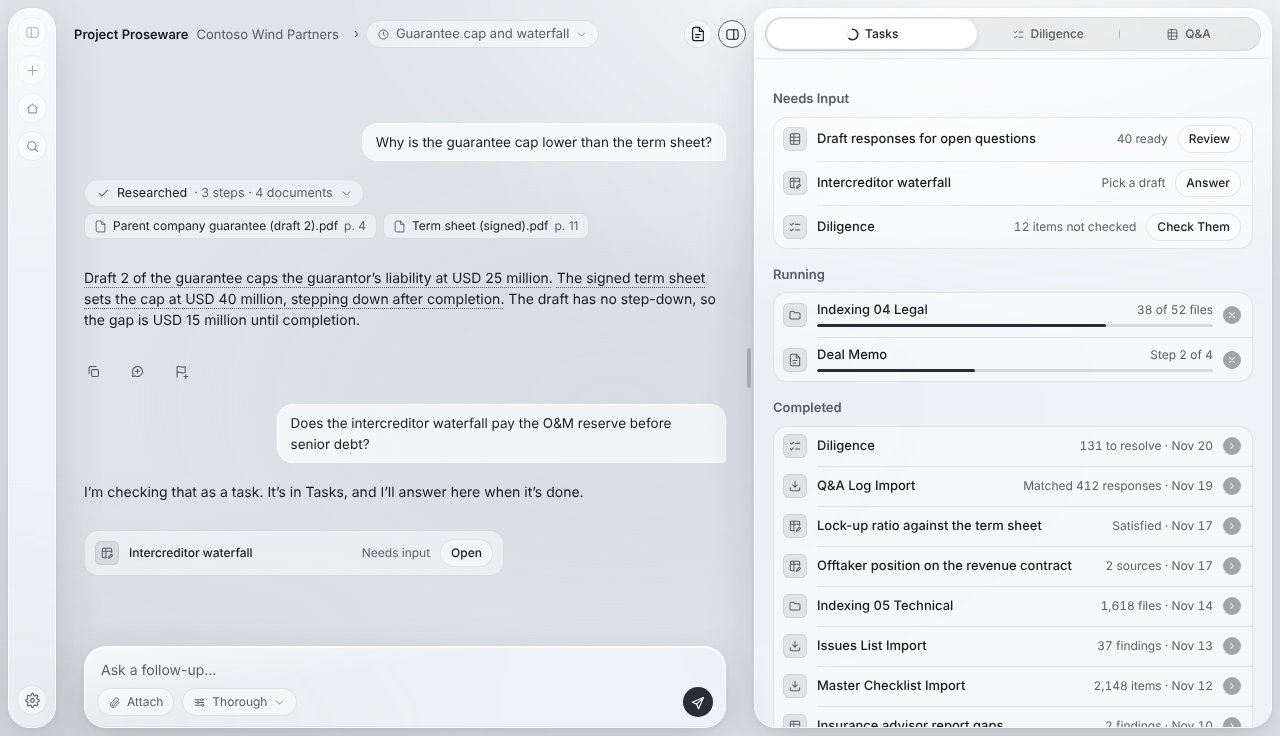
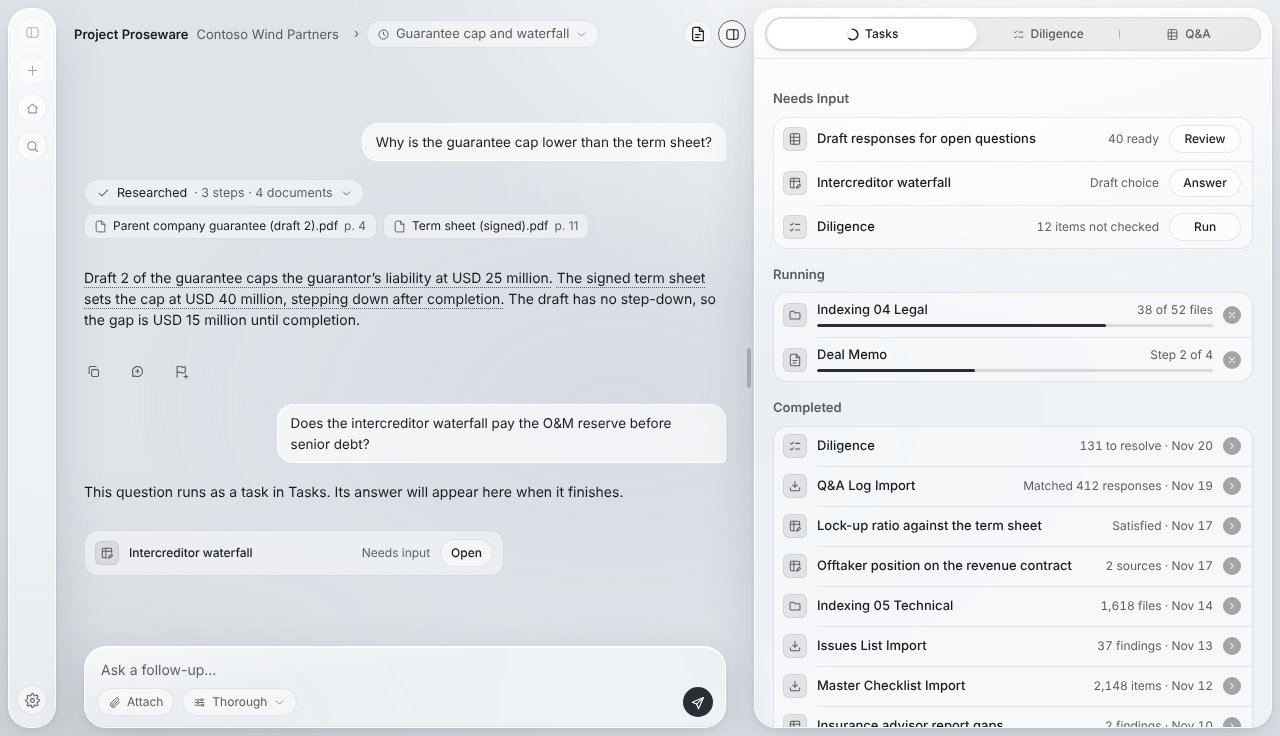
Word Needs Input and the task notice formally, and line up Needs Input's buttons (#888)

diff --git a/docs/deal-screen/mock-open-questions.js b/docs/deal-screen/mock-open-questions.js
@@ -119,17 +119,18 @@ const WATERFALL_TASK = 'Intercreditor waterfall';
 const TURN_WATERFALL_ASK = '<div class="me">Does the intercreditor waterfall pay the O&amp;M reserve before senior debt?</div>';
 
 const TURN_WATERFALL_NEEDS_INPUT = `${TURN_WATERFALL_ASK}
-<div class="ai"><p>I’m checking that as a task. It’s in Tasks, and I’ll answer here when it’s done.</p>
+<div class="ai"><p>This question runs as a task in Tasks. Its answer will appear here when it finishes.</p>
 ${taskCard('logedit', WATERFALL_TASK, 'Needs input')}</div>`;
 
-const REVIEW_BUTTON = (label) => `<button class="btn sm">${label}</button>`;
+// Needs Input's buttons share one width, so the status texts line up in one column
+const REVIEW_BUTTON = (label) => `<button class="btn sm x-act">${label}</button>`;
 
 // Needs Input: drafts to review, a task's question to the person, and items Diligence left out
 const NEEDS_INPUT_ROWS = [
   taskRow('sheet', 'Draft responses for open questions', '40 ready', { end: REVIEW_BUTTON('Review') }),
-  taskRow('logedit', WATERFALL_TASK, 'Pick a draft',
+  taskRow('logedit', WATERFALL_TASK, 'Draft choice',
     { end: REVIEW_BUTTON('Answer'), hoverText: 'Which draft is current: draft 5 (Nov 3) or draft 6 (Nov 17)?' }),
-  taskRow('cklist', 'Diligence', '12 items not checked', { end: REVIEW_BUTTON('Check Them') }),
+  taskRow('cklist', 'Diligence', '12 items not checked', { end: REVIEW_BUTTON('Run') }),
 ];
 
 const RUNNING_ROWS = [

diff --git a/docs/deal-screen/mock-chat.js b/docs/deal-screen/mock-chat.js
@@ -75,7 +75,7 @@ ${taskCard('cklist', 'Diligence', '1,204 of 2,148', 0.56)}</div>`;
 const ASK_BOARD_RESOLUTIONS = '<div class="me">Are the board resolutions for the financing current?</div>';
 
 const TURN_BOARD_TASK_RUNNING = `${ASK_BOARD_RESOLUTIONS}
-<div class="ai"><p>I’m checking that as a task. It’s in Tasks, and I’ll answer here when it’s done.</p>
+<div class="ai"><p>This question runs as a task in Tasks. Its answer will appear here when it finishes.</p>
 ${taskCard('logedit', 'Board resolutions for the financing', 'Step 3 of 5', 0.5,
     'Reading Credit agreement (draft 6).pdf')}</div>`;
 

diff --git a/docs/deal-screen/mock-open-questions.css b/docs/deal-screen/mock-open-questions.css
@@ -109,3 +109,9 @@
     display: inline-flex;
   }
 }
+
+/* Needs Input's buttons share one width, so the status texts before them end on one line */
+.x-act {
+  width: 72px;
+  justify-content: center;
+}
